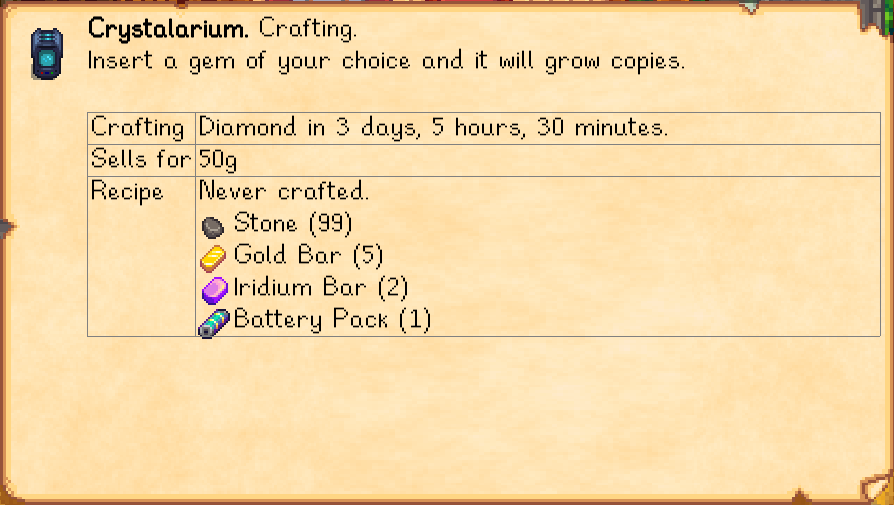
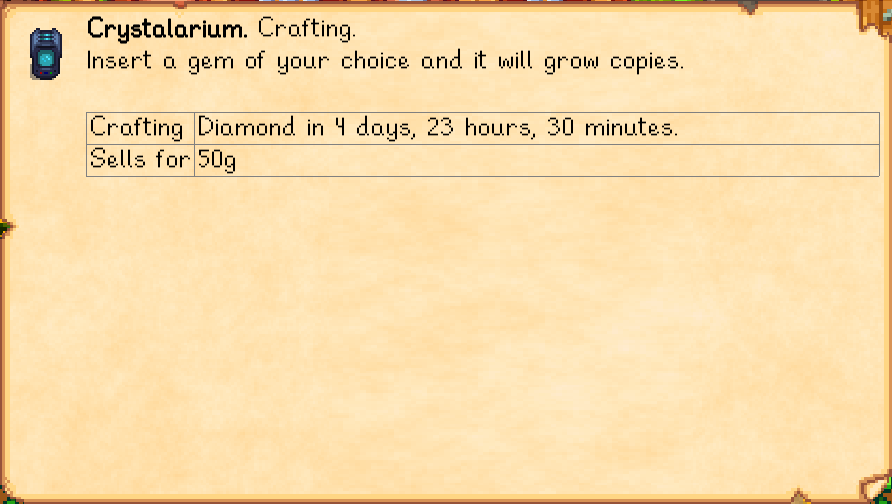
correct recipe lookup, update screenshots

diff --git a/LookupAnything/Framework/Subjects/ItemSubject.cs b/LookupAnything/Framework/Subjects/ItemSubject.cs
@@ -91,9 +91,12 @@ namespace Pathoschild.LookupAnything.Framework.Subjects
             }
 
             // recipes
-            Dictionary<RecipeType, RecipeData[]> recipes = GameHelper.GetRecipesForIngredient(item.parentSheetIndex).GroupBy(p => p.Type).ToDictionary(p => p.Key, p => p.ToArray());
-            foreach (RecipeType type in recipes.Keys.OrderBy(p => p))
-                yield return new RecipesForIngredientField(type.ToString(), item.parentSheetIndex, recipes[type]);
+            if (obj != null && obj.bigCraftable != true)
+            {
+                Dictionary<RecipeType, RecipeData[]> recipes = GameHelper.GetRecipesForIngredient(this.DisplayItem).GroupBy(p => p.Type).ToDictionary(p => p.Key, p => p.ToArray());
+                foreach (RecipeType type in recipes.Keys.OrderBy(p => p))
+                    yield return new RecipesForIngredientField(type.ToString(), item.parentSheetIndex, recipes[type]);
+            }
         }
 
         /// <summary>Draw the subject portrait (if available).</summary>

diff --git a/LookupAnything/GameHelper.cs b/LookupAnything/GameHelper.cs
@@ -114,10 +114,10 @@ namespace Pathoschild.LookupAnything
         }
 
         /// <summary>Get the recipes for which an item is needed.</summary>
-        /// <param name="itemID">The item ID.</param>
-        public static IEnumerable<RecipeData> GetRecipesForIngredient(int itemID)
+        /// <param name="item">The item.</param>
+        public static IEnumerable<RecipeData> GetRecipesForIngredient(Item item)
         {
-            return GameHelper.GetRecipes().Where(p => p.Ingredients.ContainsKey(itemID));
+            return GameHelper.GetRecipes().Where(p => p.Ingredients.ContainsKey(item.parentSheetIndex) || p.Ingredients.ContainsKey(item.category));
         }
 
         /// <summary>Get the items a specified NPC can receive.</summary>
